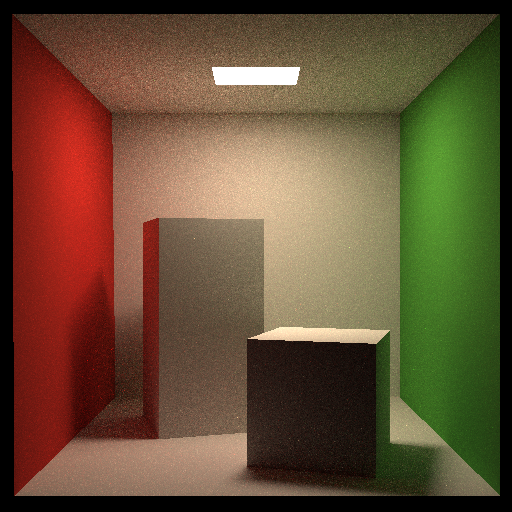
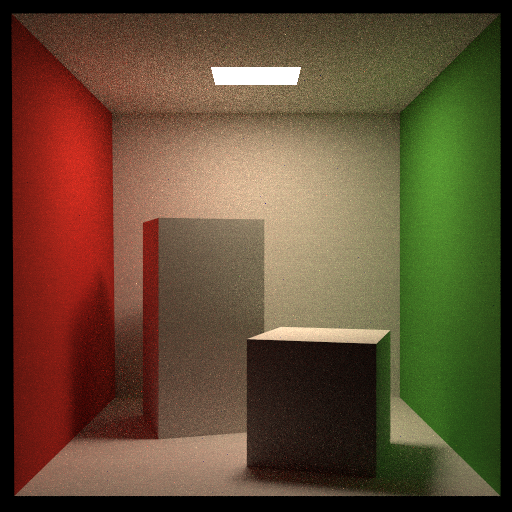
jittered sampling fot aa

diff --git a/code/Renderer.cpp b/code/Renderer.cpp
@@ -2,20 +2,19 @@
 // Created by goksu on 2/25/20.
 //
 
-#include <fstream>
-#include "Scene.hpp"
 #include "Renderer.hpp"
+#include "Scene.hpp"
+#include <fstream>
 #include <omp.h>
 
-inline float deg2rad(const float& deg) { return deg * M_PI / 180.0; }
+inline float deg2rad(const float &deg) { return deg * M_PI / 180.0; }
 
 const float EPSILON = 0.00001;
 
 // The main render function. This where we iterate over all pixels in the image,
 // generate primary rays and cast these rays into the scene. The content of the
 // framebuffer is saved to a file.
-void Renderer::Render(const Scene& scene)
-{
+void Renderer::Render(const Scene &scene) {
     std::vector<Vector3f> framebuffer(scene.width * scene.height);
 
     float scale = tan(deg2rad(scene.fov * 0.5));
@@ -24,19 +23,17 @@ void Renderer::Render(const Scene& scene)
     int m = 0;
 
     // change the spp value to change sample ammount
-    int spp = 512;
+    int spp = 32;
+    float inv_spp = 1.f / spp;
     std::cout << "SPP: " << spp << "\n";
     for (uint32_t j = 0; j < scene.height; ++j) {
         for (uint32_t i = 0; i < scene.width; ++i) {
-            // generate primary ray direction
-            float x = (2 * (i + 0.5) / (float)scene.width - 1) *
-                      imageAspectRatio * scale;
-            float y = (1 - 2 * (j + 0.5) / (float)scene.height) * scale;
-
-            Vector3f dir = normalize(Vector3f(-x, y, 1));
 #pragma omp parallel for
-            for (int k = 0; k < spp; k++){
-                framebuffer[m] += scene.castRay(Ray(eye_pos, dir), 0) / spp;  
+            for (int k = 0; k < spp; k++) {
+                float x = (2 * (i + get_random_float()) / (float)scene.width - 1) * imageAspectRatio * scale;
+                float y = (1 - 2 * (j + get_random_float()) / (float)scene.height) * scale;
+                Vector3f dir = normalize(Vector3f(-x, y, 1));
+                framebuffer[m] += scene.castRay(Ray(eye_pos, dir), 0) * inv_spp;
             }
             m++;
         }
@@ -45,7 +42,7 @@ void Renderer::Render(const Scene& scene)
     UpdateProgress(1.f);
 
     // save framebuffer to file
-    FILE* fp = fopen("binary.ppm", "wb");
+    FILE *fp = fopen("binary.ppm", "wb");
     (void)fprintf(fp, "P6\n%d %d\n255\n", scene.width, scene.height);
     for (auto i = 0; i < scene.height * scene.width; ++i) {
         static unsigned char color[3];
@@ -54,5 +51,5 @@ void Renderer::Render(const Scene& scene)
         color[2] = (unsigned char)(255 * std::pow(clamp(0, 1, framebuffer[i].z), 0.6f));
         fwrite(color, 1, 3, fp);
     }
-    fclose(fp);    
+    fclose(fp);
 }

diff --git a/code/global.hpp b/code/global.hpp
@@ -1,35 +1,35 @@
 #pragma once
-#include <iostream>
 #include <cmath>
+#include <iostream>
 #include <random>
 
 #undef M_PI
 #define M_PI 3.141592653589793f
+#undef M_1_PI
+#define M_1_PI 0.3183098861837907f
 
-extern const float  EPSILON;
+extern const float EPSILON;
 const float kInfinity = std::numeric_limits<float>::max();
 
-inline float clamp(const float &lo, const float &hi, const float &v)
-{ return std::max(lo, std::min(hi, v)); }
+inline float clamp(const float &lo, const float &hi, const float &v) { return std::max(lo, std::min(hi, v)); }
 
-inline  bool solveQuadratic(const float &a, const float &b, const float &c, float &x0, float &x1)
-{
+inline bool solveQuadratic(const float &a, const float &b, const float &c, float &x0, float &x1) {
     float discr = b * b - 4 * a * c;
-    if (discr < 0) return false;
-    else if (discr == 0) x0 = x1 = - 0.5 * b / a;
+    if (discr < 0)
+        return false;
+    else if (discr == 0)
+        x0 = x1 = -0.5 * b / a;
     else {
-        float q = (b > 0) ?
-                  -0.5 * (b + sqrt(discr)) :
-                  -0.5 * (b - sqrt(discr));
+        float q = (b > 0) ? -0.5 * (b + sqrt(discr)) : -0.5 * (b - sqrt(discr));
         x0 = q / a;
         x1 = c / q;
     }
-    if (x0 > x1) std::swap(x0, x1);
+    if (x0 > x1)
+        std::swap(x0, x1);
     return true;
 }
 
-inline float get_random_float()
-{
+inline float get_random_float() {
     static std::random_device dev;
     static std::mt19937 rng(dev());
     static std::uniform_real_distribution<float> dist(0.f, 1.f); // distribution in range [1, 6]
@@ -37,16 +37,18 @@ inline float get_random_float()
     return dist(rng);
 }
 
-inline void UpdateProgress(float progress)
-{
+inline void UpdateProgress(float progress) {
     int barWidth = 70;
 
     std::cout << "[";
     int pos = barWidth * progress;
     for (int i = 0; i < barWidth; ++i) {
-        if (i < pos) std::cout << "=";
-        else if (i == pos) std::cout << ">";
-        else std::cout << " ";
+        if (i < pos)
+            std::cout << "=";
+        else if (i == pos)
+            std::cout << ">";
+        else
+            std::cout << " ";
     }
     std::cout << "] " << int(progress * 100.0) << " %\r";
     std::cout.flush();

diff --git a/code/main.cpp b/code/main.cpp
@@ -1,7 +1,7 @@
 #include "Renderer.hpp"
 #include "Scene.hpp"
-#include "Triangle.hpp"
 #include "Sphere.hpp"
+#include "Triangle.hpp"
 #include "Vector.hpp"
 #include "global.hpp"
 #include <chrono>
@@ -10,21 +10,19 @@
 // lights) as well as set the options for the render (image width and height,
 // maximum recursion depth, field-of-view, etc.). We then call the render
 // function().
-int main(int argc, char** argv)
-{
+int main(int argc, char **argv) {
 
     // Change the definition here to change resolution
     // Scene scene(784, 784);
     Scene scene(512, 512);
 
-
-    Material* red = new Material(DIFFUSE, Vector3f(0.0f));
+    Material *red = new Material(DIFFUSE, Vector3f(0.0f));
     red->Kd = Vector3f(0.63f, 0.065f, 0.05f);
-    Material* green = new Material(DIFFUSE, Vector3f(0.0f));
+    Material *green = new Material(DIFFUSE, Vector3f(0.0f));
     green->Kd = Vector3f(0.14f, 0.45f, 0.091f);
-    Material* white = new Material(DIFFUSE, Vector3f(0.0f));
+    Material *white = new Material(DIFFUSE, Vector3f(0.0f));
     white->Kd = Vector3f(0.725f, 0.71f, 0.68f);
-    Material* light = new Material(DIFFUSE, (8.0f * Vector3f(0.747f+0.058f, 0.747f+0.258f, 0.747f) + 15.6f * Vector3f(0.740f+0.287f,0.740f+0.160f,0.740f) + 18.4f *Vector3f(0.737f+0.642f,0.737f+0.159f,0.737f)));
+    Material *light = new Material(DIFFUSE, (8.0f * Vector3f(0.747f + 0.058f, 0.747f + 0.258f, 0.747f) + 15.6f * Vector3f(0.740f + 0.287f, 0.740f + 0.160f, 0.740f) + 18.4f * Vector3f(0.737f + 0.642f, 0.737f + 0.159f, 0.737f)));
     light->Kd = Vector3f(0.65f);
 
     MeshTriangle floor("../models/cornellbox/floor.obj", white);

diff --git a/code/Material.hpp b/code/Material.hpp
@@ -151,7 +151,7 @@ float Material::pdf(const Vector3f &wi, const Vector3f &wo, const Vector3f &N){
         {
             // uniform sample probability 1 / (2 * PI)
             if (dotProduct(wo, N) > 0.0f)
-                return 0.5f / M_PI;
+                return 0.5f * M_1_PI;
             else
                 return 0.0f;
             break;
@@ -166,7 +166,7 @@ Vector3f Material::eval(const Vector3f &wi, const Vector3f &wo, const Vector3f &
             // calculate the contribution of diffuse   model
             float cosalpha = dotProduct(N, wo);
             if (cosalpha > 0.0f) {
-                Vector3f diffuse = Kd / M_PI;
+                Vector3f diffuse = Kd * M_1_PI;
                 return diffuse;
             }
             else
